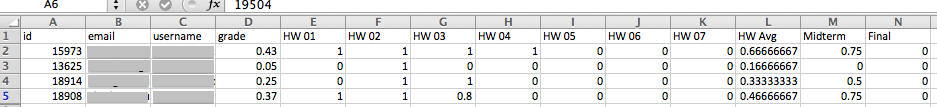
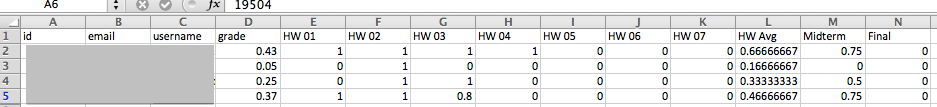
Olga's comments; new note is subject to legal review

Changed region(s): [[0.0, 0.4206, 0.2476, 0.9813]]

diff --git a/docs/en_us/course_authors/source/running_course/course_grades.rst b/docs/en_us/course_authors/source/running_course/course_grades.rst
@@ -80,6 +80,8 @@ Download Grades for Enrolled Students
 
 After you request a grade report for your students, the result is a time-stamped CSV file that includes columns to identify each student: id, email, and username. It also includes a column for every assignment that is included in your grading configuration: each homework, lab, midterm, final, and any other assignment type you added to your course. 
 
+.. important:: Because this file contains identifying information for students, be sure to follow your institution's data stewardship policies when you open or save this file.
+
 To download a file of student grades:
 
 #. View the live version of your course.
